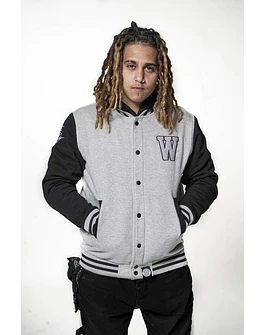
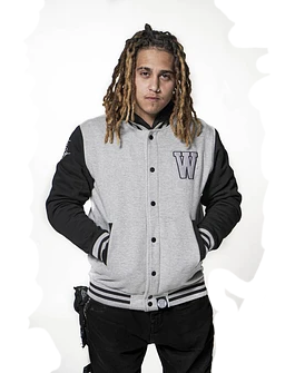
09/01

diff --git a/Homepage.html b/Homepage.html
@@ -22,19 +22,33 @@
     <div id="spr">
     <h1>Produtos em destaque</h1>
     <div id="dstq">
+        <div>
         <img src="T-SHIRT WET BED GANG.webp" alt="">
-        <img src="CASACO BASEBALL.webp" alt="">
+        <h4>T-SHIRT WET BED GANG</h4>
+        <H4>€19,90</H4>
+        </div>
+            <div id="peqeno">
+             <img src="CASACO BASEBALL.webp" alt="">
+             <h4>CASACO BASEBALL WBG</h4>
+            <h4>€49,99</h4>
+            </div>
+        <div>
         <img src="SWEAT COM CAPUZ WET BED GANG.webp" alt="">
-        <img src="BOMBER.webp" alt="">
+        <h4>SWEAT COM CAPUZ WET BED GANG</h4>
+        <h4>€49,99</h4>
+        </div>
+            <div>
+            <img src="BOMBER.webp" alt="">
+            <h4>BOMBER WET BED GANG</h4>
+            <H4>€79,99</H4>
+            </div> 
+        <div>
         <img src="CASACO DE GANGA COM PELO.webp" alt="">
+        <h4>CASACO DE GANGA COM PELO WET BED GANG</h4>
+        <H4>€89,99</H4>
+        </div>
     </div>
-    <di id="preco">
-        <a>€19,90</a>
-        <a>€49,99</a>
-        <a>€49,99</a>
-        <a>€79,99</a>
-        <a>€89,99</a>
-    </div>
+</div>
 </div>
 </body>
 </html>

diff --git a/Style.css b/Style.css
@@ -1,3 +1,10 @@
+body{
+   margin: 0px;
+   background-repeat: no-repeat;
+   background-image: url(big1.jpeg);
+   background-size: 100%;
+   overflow: scroll;
+}
 #lft{
     margin-left: 0%;
     margin-right: 0%;
@@ -32,25 +39,15 @@ body{
 background-color: rgb(183, 183, 183);
 }
 #dstq{
-   display:flex ;
-   width: auto;
-   height: auto;
-   justify-content: space-between;
-   margin-left: auto;
-   margin-right: auto;
+   display:flex;
+   justify-content: space-around;
+  padding-right: 90px;
+  padding-left: 90px;
 }
 #dstq img{
+   display: flex;
 padding-right: 15px;
 padding-left: 15px;
-}
-a{display:flex;
-   justify-content: space-between;
-   padding-right: 120px;
-   padding-left: 138px;
-   padding-top: 10px;
-}
-#preco{
-   display:flex ;
 
 }
 h1{
@@ -58,6 +55,15 @@ h1{
 }
 #spr{
    text-align: center;
-   margin-left: 90px;
-   margin-right: 90px;  
+     
+}
+#peqeno img{
+   
+   height: 335px;
+}
+h4{
+   margin-top: 11px;
+   margin-bottom: 0px;
+   margin-left: 0px;
+   margin-right: 0px;
 }
